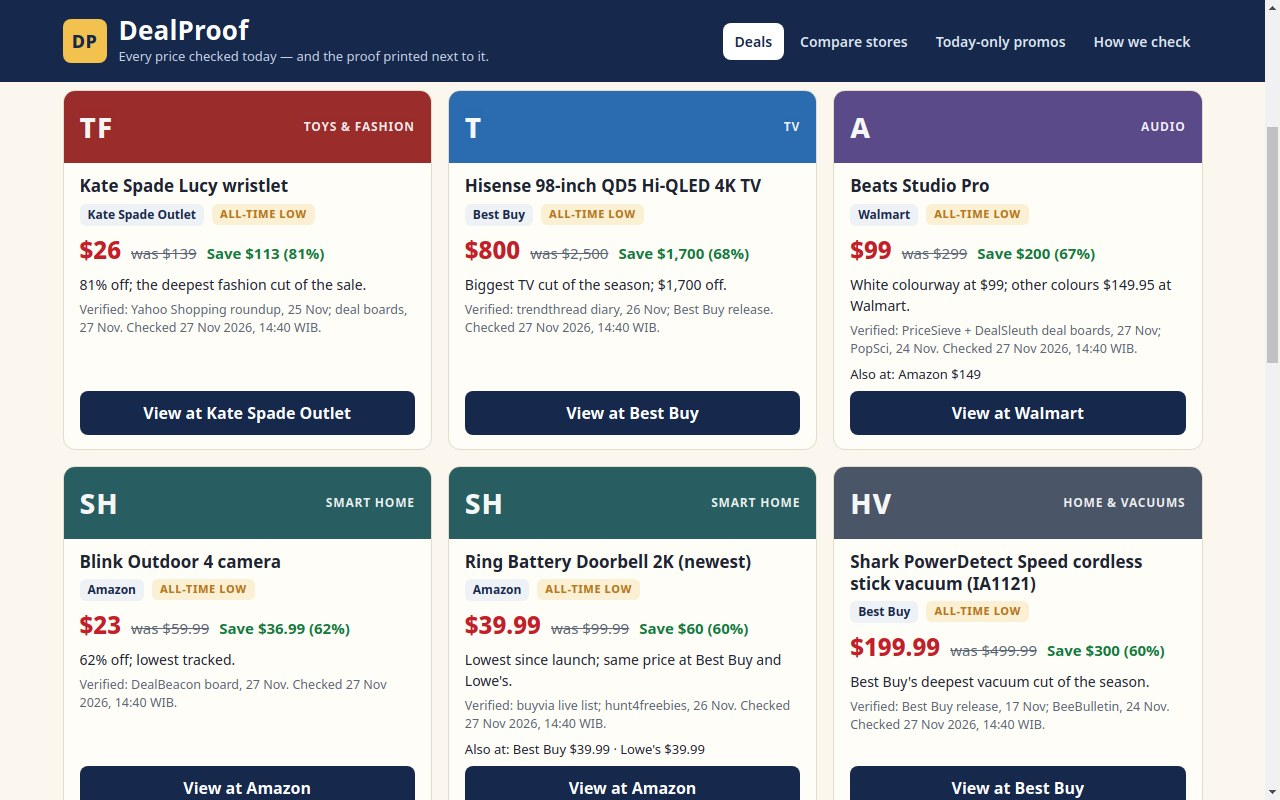
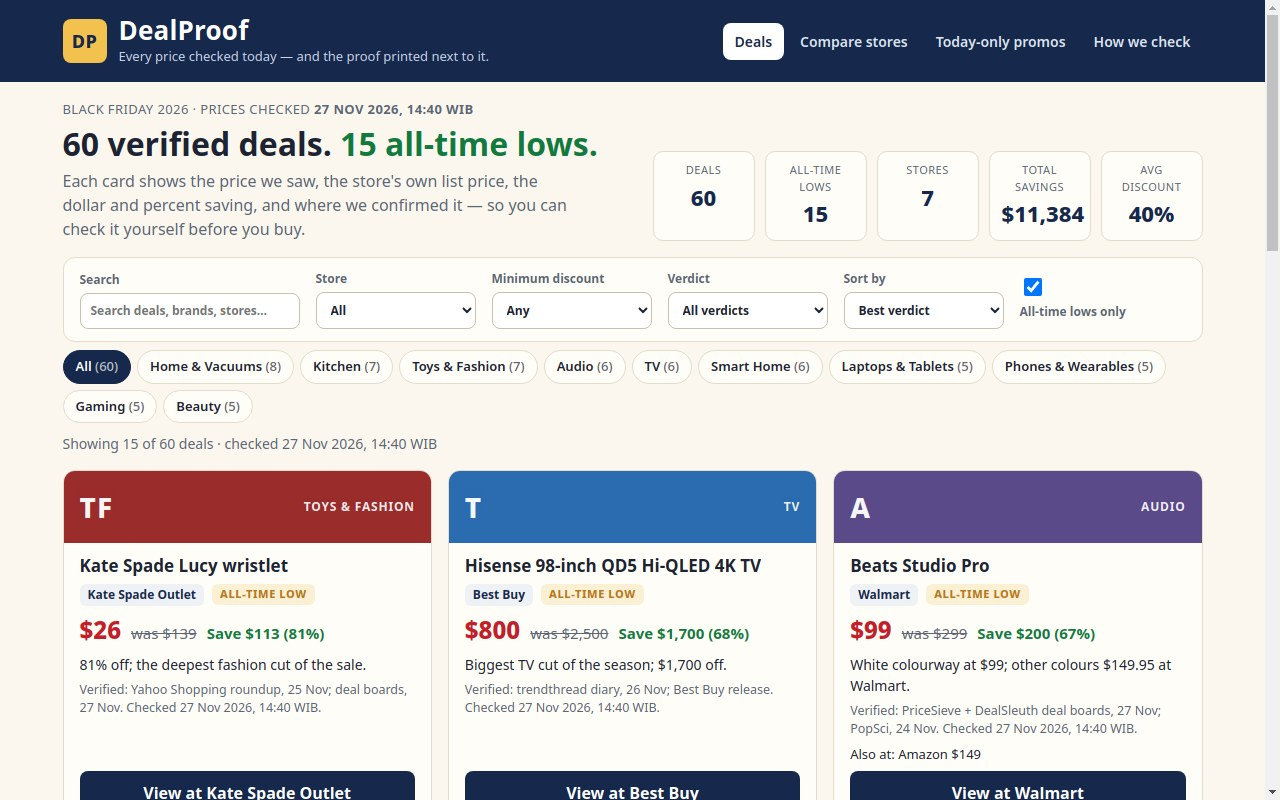
Fix Woot links (no site search: link woot.com, say so on card) + re-shoot S4 at scroll 0 with lows-only filter visible

diff --git a/app/views.js b/app/views.js
@@ -368,7 +368,7 @@ export function viewHow() {
     "The was-price is the store's own list price for that exact product. We never invent a was-price, and we never list a product whose was-price we could not verify.",
     "The verdict comes from comparing the sale price with the product's 2026 street price: all-time low means the lowest price we have seen this year; strong means a real cut below the usual street price; routine means an ordinary cut. Inflated was-prices are dropped, not listed.",
     "We check the same product at more than one store where it matters, and print the other stores' prices on the card.",
-    "We link to store search pages, not to product pages we guessed. If a store's search link does not work, we say so rather than inventing a URL.",
+    "We link to store search pages, not to product pages we guessed. If a store has no working search link, we say so on the card rather than inventing a URL — Woot has no site search, so its two cards link to woot.com itself.",
     "No product photos: every thumbnail is a plain colour block with the category initials. No affiliate codes, no sponsored slots, no paid placement.",
     "Prices move during Black Friday. The check time printed on every card is the moment we saw that price; the store page is always the final word.",
   ];

diff --git a/app/data.js b/app/data.js
@@ -363,8 +363,8 @@ export const deals = [
     price: 64.99,
     was: 199.99,
     verdict: "strong",
-    url: "https://www.woot.com/search?q=SteelSeries+Arctis+Nova+7",
-    evidence: "$135 off — the cheapest Nova headset this season.",
+    url: "https://www.woot.com/",
+    evidence: "$135 off — the cheapest Nova headset this season. Woot has no site search — browse woot.com.",
     source: "hunt4freebies live list, 26 Nov",
     checked: CHECKED,
   },
@@ -376,8 +376,8 @@ export const deals = [
     price: 183.99,
     was: 229.99,
     verdict: "strong",
-    url: "https://www.woot.com/search?q=SteelSeries+Arctis+Nova+Pro",
-    evidence: "$46 under Amazon's $229.99 for the same headset.",
+    url: "https://www.woot.com/",
+    evidence: "$46 under Amazon's $229.99 for the same headset. Woot has no site search — browse woot.com.",
     source: "PriceSieve cross-store audit, 27 Nov",
     checked: CHECKED,
     alsoAt: [{ store: "Amazon", price: 229.99 }],
